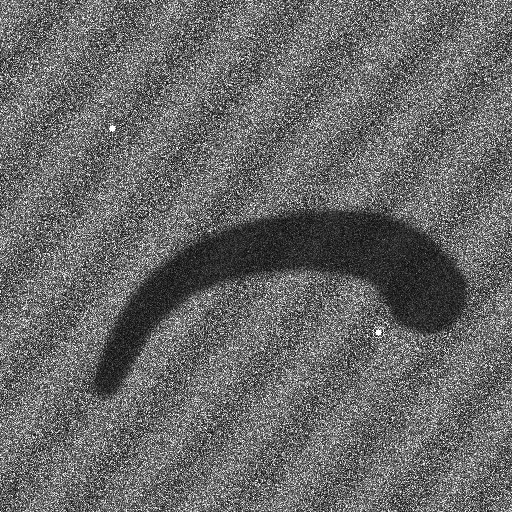
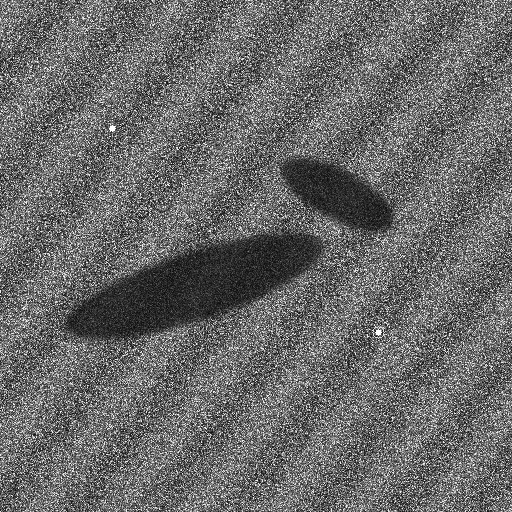
Use unique SAR imagery for each scenario

Changed region(s): [[0.2812, 0.2812, 0.9375, 0.6562], [0.125, 0.5, 0.3125, 0.7812]]

diff --git a/backend/services/sar_detector.py b/backend/services/sar_detector.py
@@ -223,6 +223,9 @@ class SARSpillDetector:
                 py = cy + int(55 * (t**2) - 35 * t)
                 r = int(14 + 10 * (t + 1.4))
                 cv2.circle(slick_mask, (px, py), r, 255, -1)
+        elif slick_type == "english_channel_slick":
+            cv2.ellipse(slick_mask, (int(width * 0.38), int(height * 0.56)), (135, 34), -18, 0, 360, 255, -1)
+            cv2.ellipse(slick_mask, (int(width * 0.66), int(height * 0.38)), (62, 24), 28, 0, 360, 255, -1)
         else:
             cv2.ellipse(slick_mask, (int(width * 0.5), int(height * 0.5)), (110, 50), 35, 0, 360, 255, -1)
 

diff --git a/generate_samples.py b/generate_samples.py
@@ -119,7 +119,7 @@ img2_bytes = detector.generate_synthetic_sar_image(512, 512, slick_type="diffuse
 with open("sample_data/sar_images/singapore_strait_sentinel1.png", "wb") as f:
     f.write(img2_bytes)
 
-img3_bytes = detector.generate_synthetic_sar_image(512, 512, slick_type="trailing_bilge_slick")
+img3_bytes = detector.generate_synthetic_sar_image(512, 512, slick_type="english_channel_slick")
 with open("sample_data/sar_images/english_channel_sentinel1.png", "wb") as f:
     f.write(img3_bytes)
 
